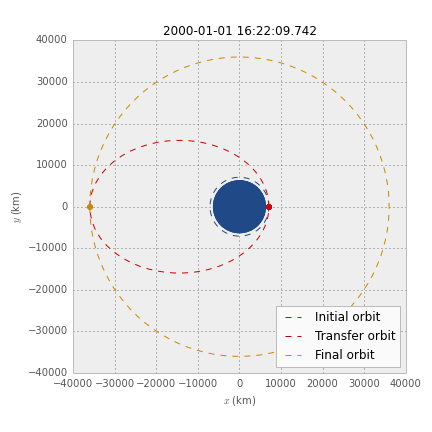
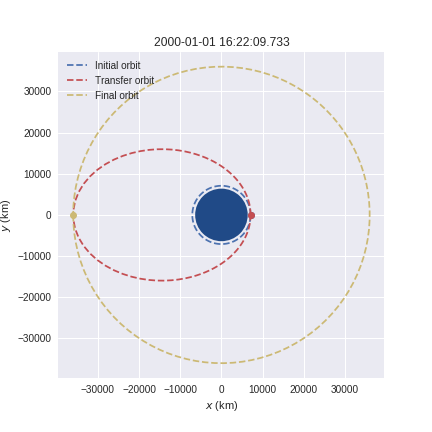
Regenerate some plots

diff --git a/docs/source/user_guide.rst b/docs/source/user_guide.rst
@@ -338,7 +338,7 @@ For example, we can get `Apophis asteroid (99942 Apophis)`_ orbit with one comma
     op.plot(earth_orbit, label='Earth')
     op.plot(apophis_orbit, label='Apophis')
 
-.. figure:: _static/apophis.png
+.. figure:: _static/neos.png
    :align: center
    :alt: Apophis asteroid orbit
    
